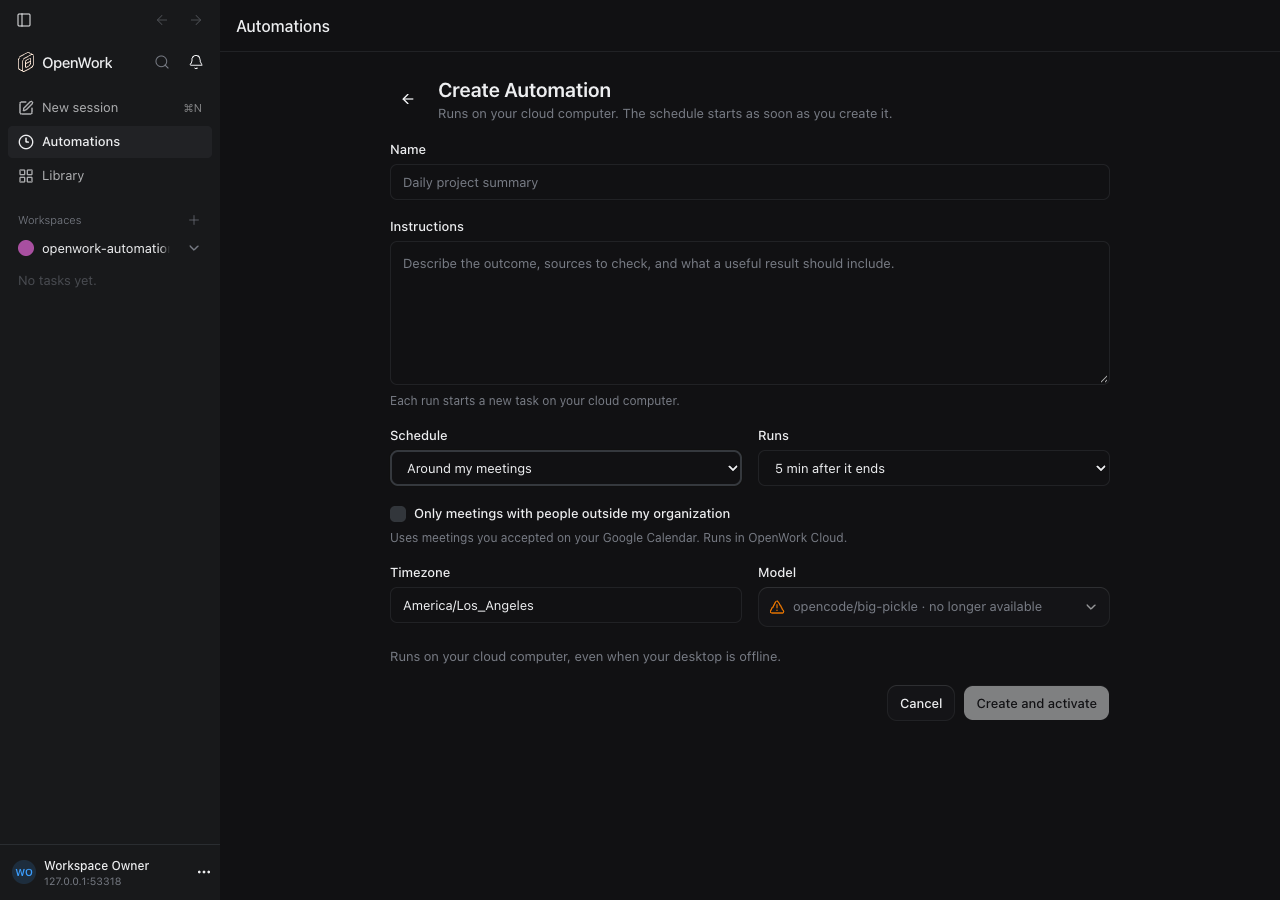
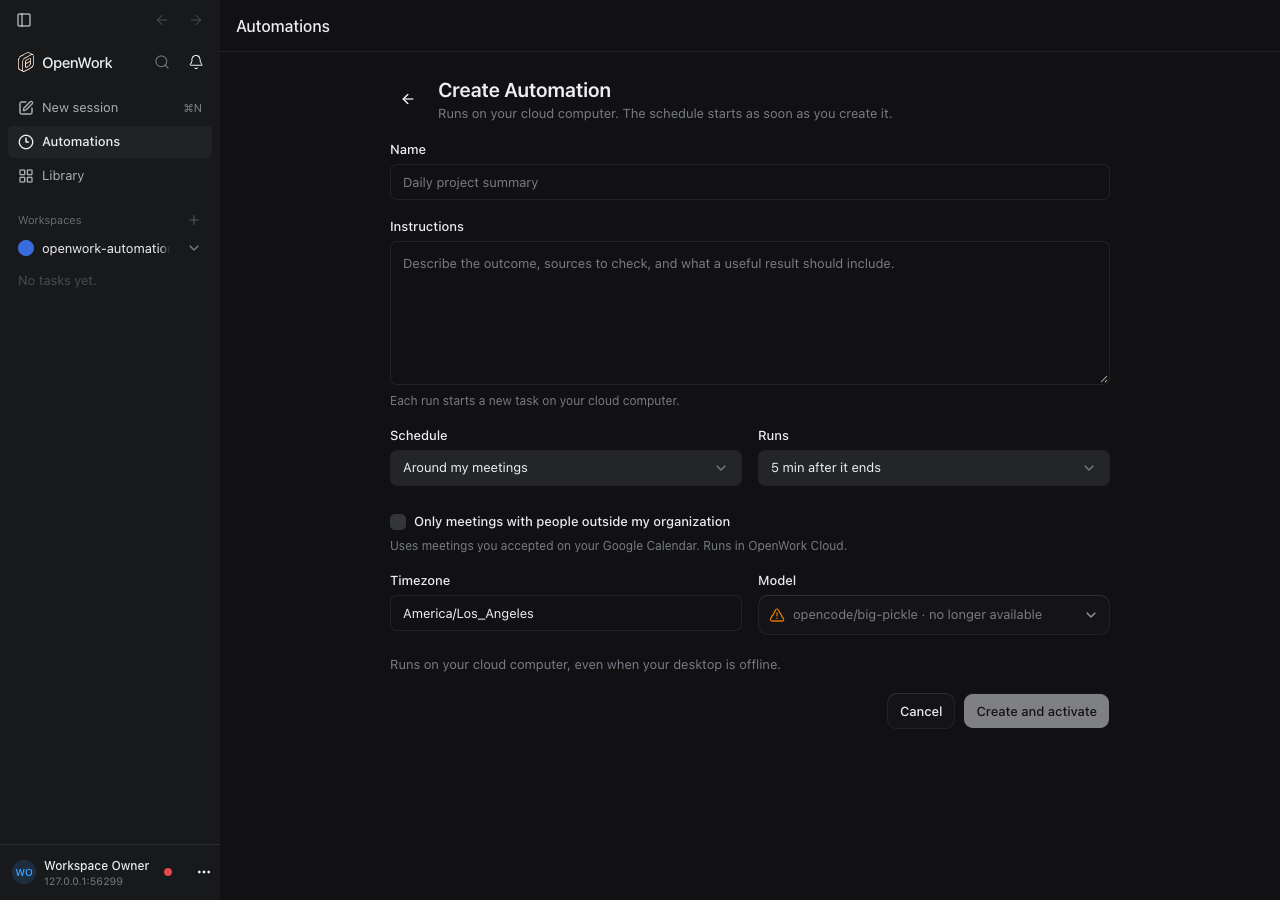
refactor(app): schedule choices use the shared Select
The schedule menu and the new interval and meeting choices use the shared
Select instead of native selects (DESIGN.md P5), which also retires this
file's UI guardrail baseline entry. The proof picks options the way a
person does, and the feature docs show the updated editor.

diff --git a/apps/app/src/react-app/domains/automations/automation-schedule-fields.tsx b/apps/app/src/react-app/domains/automations/automation-schedule-fields.tsx
@@ -5,6 +5,7 @@ import { Button } from "@/components/ui/button"
 import { Checkbox } from "@/components/ui/checkbox"
 import { Input } from "@/components/ui/input"
 import { Label } from "@/components/ui/label"
+import { Select, SelectContent, SelectGroup, SelectItem, SelectTrigger, SelectValue } from "@/components/ui/select"
 import { useOrgFeature } from "@/react-app/domains/cloud/use-org-feature"
 
 const WEEKDAYS = [
@@ -42,8 +43,35 @@ const meetingMinutesLabel = (minutes: number, edge: "start" | "end") => minutes 
   : `${minutes} min ${edge === "start" ? "before it starts" : "after it ends"}`
 
 const INTERVAL_HOURS = [1, 2, 3, 4, 6, 8, 12] as const
-const SELECT_CLASS = "h-9 w-full rounded-lg border border-border bg-background px-3 text-sm"
 const hourLabel = (hour: number) => `${String(hour).padStart(2, "0")}:00`
+
+/** One schedule choice on the shared Select, labelled by the field's <Label htmlFor>. */
+function ScheduleSelect<T extends string | number>(props: {
+  id: string
+  value: T
+  items: readonly { value: T; label: string }[]
+  onChange: (value: T) => void
+}) {
+  return (
+    <Select
+      value={props.value}
+      items={props.items}
+      onValueChange={(value) => {
+        const match = props.items.find((item) => item.value === value)
+        if (match) props.onChange(match.value)
+      }}
+    >
+      <SelectTrigger id={props.id} className="w-full rounded-lg">
+        <SelectValue />
+      </SelectTrigger>
+      <SelectContent>
+        <SelectGroup>
+          {props.items.map((item) => <SelectItem key={String(item.value)} value={item.value}>{item.label}</SelectItem>)}
+        </SelectGroup>
+      </SelectContent>
+    </Select>
+  )
+}
 
 /**
  * Frequency, time, days and time zone of an Automation schedule. Shared by the
@@ -94,53 +122,45 @@ export function AutomationScheduleFields(props: {
       <div className="grid gap-4 md:grid-cols-2">
         <div className="space-y-2">
           <Label htmlFor={id("frequency")}>Schedule</Label>
-          <select
+          <ScheduleSelect
             id={id("frequency")}
-            className={SELECT_CLASS}
             value={schedule.kind}
-            onChange={(event) => {
-              const kind = event.currentTarget.value
-              if (kind === "once" || kind === "daily" || kind === "weekly" || kind === "interval" || kind === "calendar") changeScheduleKind(kind)
-            }}
-          >
-            <option value="once">Once</option>
-            <option value="daily">Daily</option>
-            <option value="weekly">Weekly</option>
-            {intervalOffered ? <option value="interval">Every few hours</option> : null}
-            {meetingsOffered ? <option value="calendar">Around my meetings</option> : null}
-          </select>
+            items={[
+              { value: "once", label: "Once" },
+              { value: "daily", label: "Daily" },
+              { value: "weekly", label: "Weekly" },
+              ...(intervalOffered ? [{ value: "interval" as const, label: "Every few hours" }] : []),
+              ...(meetingsOffered ? [{ value: "calendar" as const, label: "Around my meetings" }] : []),
+            ]}
+            onChange={changeScheduleKind}
+          />
         </div>
         {schedule.kind === "calendar" ? (
           <div className="space-y-2">
             <Label htmlFor={id("meeting-moment")}>Runs</Label>
-            <select
+            <ScheduleSelect
               id={id("meeting-moment")}
-              className={SELECT_CLASS}
               value={`${schedule.edge}:${Math.abs(schedule.offsetMinutes)}`}
-              onChange={(event) => {
-                const [edge, minutes] = event.currentTarget.value.split(":")
+              items={(["start", "end"] as const).flatMap((edge) => [...new Set([...MEETING_MINUTES, ...(schedule.edge === edge ? [Math.abs(schedule.offsetMinutes)] : [])])]
+                .sort((left, right) => left - right)
+                .map((minutes) => ({ value: `${edge}:${minutes}`, label: meetingMinutesLabel(minutes, edge) })))}
+              onChange={(value) => {
+                const [edge, minutes] = value.split(":")
                 if (edge !== "start" && edge !== "end") return
                 props.onChange({ ...schedule, edge, offsetMinutes: edge === "start" ? -Number(minutes) : Number(minutes) })
               }}
-            >
-              {(["start", "end"] as const).flatMap((edge) => [...new Set([...MEETING_MINUTES, ...(schedule.edge === edge ? [Math.abs(schedule.offsetMinutes)] : [])])]
-                .sort((left, right) => left - right)
-                .map((minutes) => <option key={`${edge}:${minutes}`} value={`${edge}:${minutes}`}>{meetingMinutesLabel(minutes, edge)}</option>))}
-            </select>
+            />
           </div>
         ) : schedule.kind === "interval" ? (
           <div className="space-y-2">
             <Label htmlFor={id("every-hours")}>Every</Label>
-            <select
+            <ScheduleSelect
               id={id("every-hours")}
-              className={SELECT_CLASS}
               value={schedule.everyHours}
-              onChange={(event) => props.onChange({ ...schedule, everyHours: Number(event.currentTarget.value) })}
-            >
-              {[...new Set([...INTERVAL_HOURS, schedule.everyHours])].sort((left, right) => left - right).map((hours) => (
-                <option key={hours} value={hours}>{hours === 1 ? "1 hour" : `${hours} hours`}</option>
-              ))}
-            </select>
+              items={[...new Set([...INTERVAL_HOURS, schedule.everyHours])].sort((left, right) => left - right)
+                .map((hours) => ({ value: hours, label: hours === 1 ? "1 hour" : `${hours} hours` }))}
+              onChange={(everyHours) => props.onChange({ ...schedule, everyHours })}
+            />
           </div>
         ) : schedule.kind === "once" ? (
           <div className="space-y-2">
@@ -172,30 +192,22 @@ export function AutomationScheduleFields(props: {
         <div className="grid gap-4 md:grid-cols-2">
           <div className="space-y-2">
             <Label htmlFor={id("window-start")}>From</Label>
-            <select
+            <ScheduleSelect
               id={id("window-start")}
-              className={SELECT_CLASS}
               value={schedule.startHour}
-              onChange={(event) => {
-                const startHour = Number(event.currentTarget.value)
-                props.onChange({ ...schedule, startHour, endHour: Math.max(schedule.endHour, startHour + 1) })
-              }}
-            >
-              {Array.from({ length: 24 }, (_, hour) => <option key={hour} value={hour}>{hourLabel(hour)}</option>)}
-            </select>
+              items={Array.from({ length: 24 }, (_, hour) => ({ value: hour, label: hourLabel(hour) }))}
+              onChange={(startHour) => props.onChange({ ...schedule, startHour, endHour: Math.max(schedule.endHour, startHour + 1) })}
+            />
           </div>
           <div className="space-y-2">
             <Label htmlFor={id("window-end")}>Until</Label>
-            <select
+            <ScheduleSelect
               id={id("window-end")}
-              className={SELECT_CLASS}
               value={schedule.endHour}
-              onChange={(event) => props.onChange({ ...schedule, endHour: Number(event.currentTarget.value) })}
-            >
-              {Array.from({ length: 24 - schedule.startHour }, (_, index) => schedule.startHour + index + 1).map((hour) => (
-                <option key={hour} value={hour}>{hour === 24 ? "End of day" : hourLabel(hour)}</option>
-              ))}
-            </select>
+              items={Array.from({ length: 24 - schedule.startHour }, (_, index) => schedule.startHour + index + 1)
+                .map((hour) => ({ value: hour, label: hour === 24 ? "End of day" : hourLabel(hour) }))}
+              onChange={(endHour) => props.onChange({ ...schedule, endHour })}
+            />
           </div>
         </div>
       ) : null}

diff --git a/evals/proofs/automation-schedule-triggers.proof.test.ts b/evals/proofs/automation-schedule-triggers.proof.test.ts
@@ -6,36 +6,44 @@ const test = spec.world(automationScheduleTriggersWorld, { timeout: 600_000, res
 const WITHIN = 60_000;
 
 test("a member schedules an Automation every few hours, or around their meetings, once their organization has each", async ({ world, user, probe, step, evidence }) => {
-  const scheduleChoices = async () => (await probe.dom("#automation-frequency option")).elements.map((element) => element.text.trim());
+  /** The choice a schedule menu shows. */
+  const fieldText = async (selector: string) => (await probe.dom(`${selector} [data-slot="select-value"]`)).elements.map((element) => element.text.trim()).join(", ");
   async function openNewAutomation() {
     await user.see({ text: "What do you need done?" }, { timeoutMs: WITHIN });
     await user.click({ role: "button", label: "Automations" });
     await user.click({ role: "button", label: "New Automation" });
     await user.see({ label: "Schedule" }, { timeoutMs: WITHIN });
   }
+  /** Opens the Schedule menu and reads its choices; leaves it open. */
+  async function scheduleChoices(expected?: string) {
+    await user.click({ label: "Schedule" });
+    await user.see({ role: "option", label: "Once" }, { timeoutMs: WITHIN });
+    return probe.eventually(async () => (await probe.dom('[role="option"]')).elements.map((element) => element.text.trim()), {
+      within: WITHIN, label: expected ? `the Schedule menu offers ${expected}` : "the Schedule menu lists its choices",
+      until: (values) => expected ? values.includes(expected) : values.length > 0,
+    });
+  }
   await user.resizeViewport({ width: 1280, height: 900, deviceScaleFactor: 1 });
 
   await step("before: the Schedule menu offers Once, Daily and Weekly only", async () => {
     await openNewAutomation();
     const choices = await scheduleChoices();
-    evidence.recordAssertionEvidence("Every few hours is not offered yet", choices.join(", "), !choices.includes("Every few hours"));
+    evidence.recordAssertionEvidence("Every few hours and Around my meetings are not offered yet", choices.join(", "), choices.join(",") === "Once,Daily,Weekly");
     expect(choices).toEqual(["Once", "Daily", "Weekly"]);
     await user.screenshot();
+    await user.press("Escape");
   });
 
   await step("after: with the feature on, the member picks Every few hours and sets 3 hours, 09:00 to 18:00", async () => {
     await world.turnOnIntervalSchedules();
     await user.reload();
     await openNewAutomation();
-    const choices = await probe.eventually(scheduleChoices, { within: WITHIN, label: "the Schedule menu offers Every few hours", until: (values) => values.includes("Every few hours") });
-    // Clicking the label focuses the menu without opening it; typing picks the option, as on a keyboard.
-    await user.click({ text: "Schedule" });
-    await user.press("e");
+    const choices = await scheduleChoices("Every few hours");
+    await user.click({ role: "option", label: "Every few hours" });
     await user.see({ label: "Every" }, { timeoutMs: WITHIN });
     await user.see({ label: "From" });
     await user.see({ label: "Until" });
-    const fields = await probe.dom("#automation-every-hours option:checked, #automation-window-start option:checked, #automation-window-end option:checked");
-    const values = fields.elements.map((element) => element.text.trim());
+    const values = [await fieldText("#automation-every-hours"), await fieldText("#automation-window-start"), await fieldText("#automation-window-end")];
     evidence.recordAssertionEvidence("Every 3 hours from 09:00 until 18:00 is the starting choice", `${choices.join(", ")} → ${values.join(", ")}`, values.join(",") === "3 hours,09:00,18:00");
     expect(values).toEqual(["3 hours", "09:00", "18:00"]);
     await user.screenshot();
@@ -45,14 +53,13 @@ test("a member schedules an Automation every few hours, or around their meetings
     await world.turnOnCalendarTriggers();
     await user.reload();
     await openNewAutomation();
-    const choices = await probe.eventually(scheduleChoices, { within: WITHIN, label: "the Schedule menu offers Around my meetings", until: (values) => values.includes("Around my meetings") });
-    await user.click({ text: "Schedule" });
-    await user.press("a");
+    const choices = await scheduleChoices("Around my meetings");
+    await user.click({ role: "option", label: "Around my meetings" });
     await user.see({ label: "Runs" }, { timeoutMs: WITHIN });
     await user.see({ label: "Only meetings with people outside my organization" });
-    const moment = (await probe.dom("#automation-meeting-moment option:checked")).elements.map((element) => element.text.trim());
-    evidence.recordAssertionEvidence("5 minutes after each meeting ends is the starting choice", `${choices.join(", ")} → ${moment.join(", ")}`, moment.join(",") === "5 min after it ends");
-    expect(moment).toEqual(["5 min after it ends"]);
+    const moment = await fieldText("#automation-meeting-moment");
+    evidence.recordAssertionEvidence("5 minutes after each meeting ends is the starting choice", `${choices.join(", ")} → ${moment}`, moment === "5 min after it ends");
+    expect(moment).toBe("5 min after it ends");
     await user.screenshot();
   });
 });
